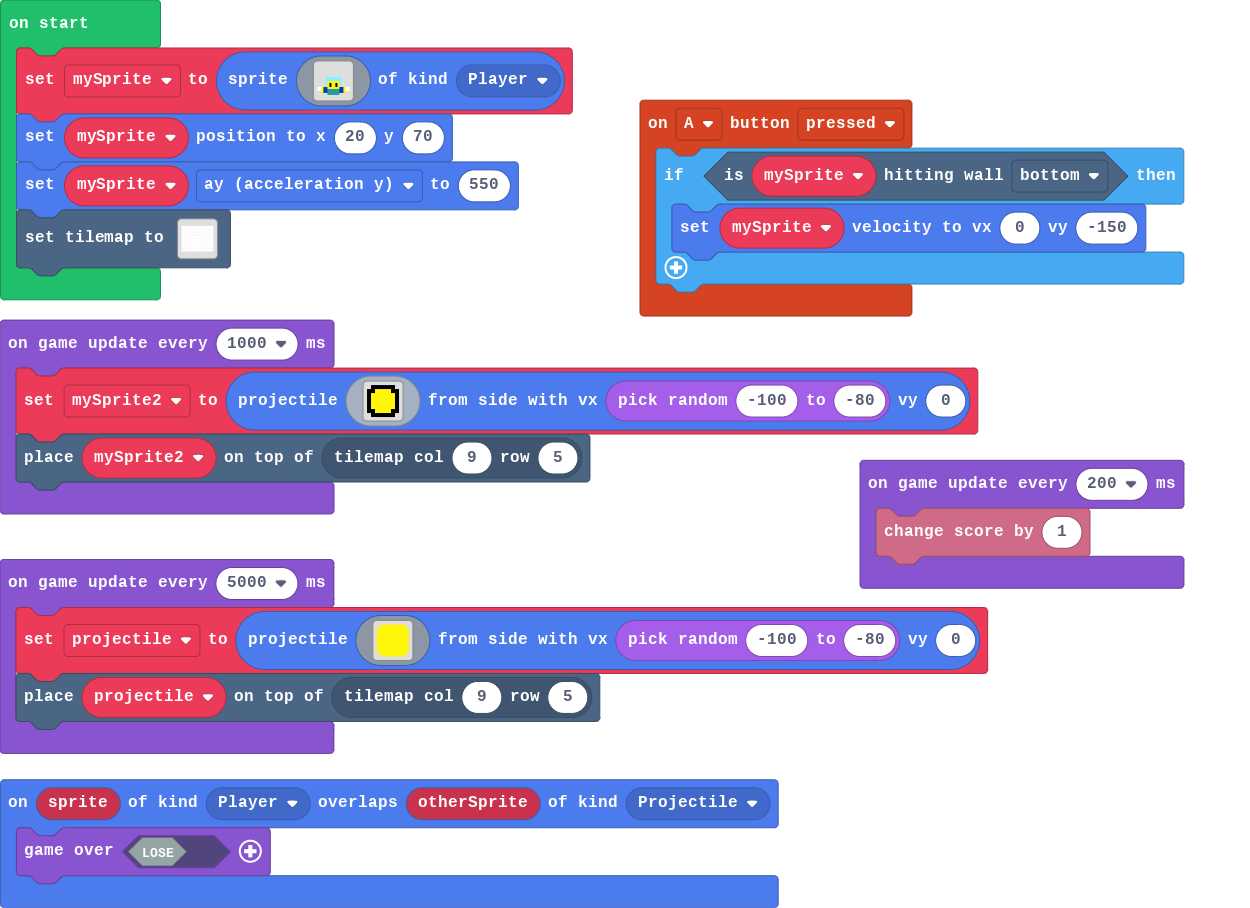
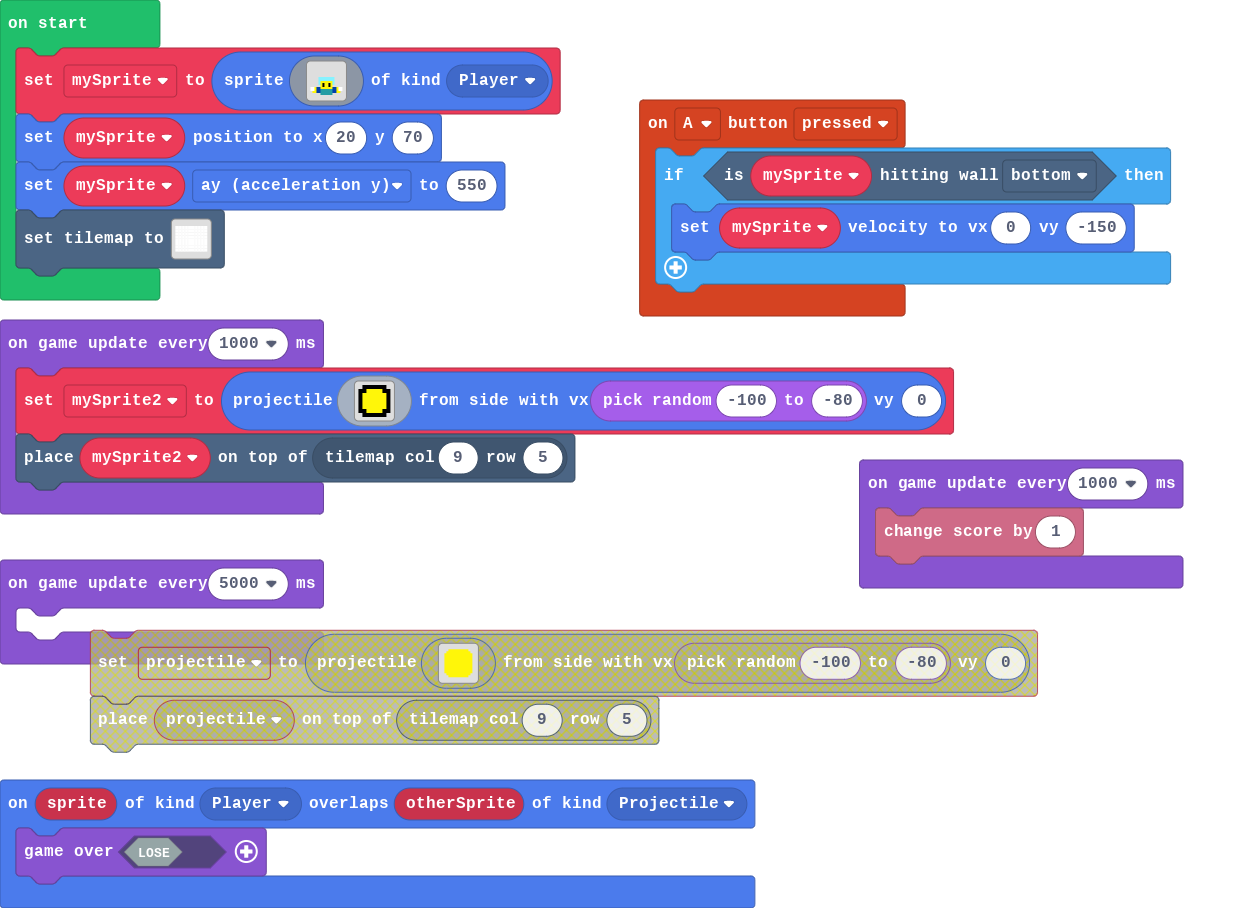
changed how fast the score changes.

diff --git a/main.ts b/main.ts
@@ -7,7 +7,6 @@ sprites.onOverlap(SpriteKind.Player, SpriteKind.Projectile, function (sprite, ot
     game.over(false)
 })
 let mySprite2: Sprite = null
-let projectile: Sprite = null
 let mySprite: Sprite = null
 mySprite = sprites.create(img`
     . . . . . . . . . . . . . . . . 
@@ -40,25 +39,7 @@ tiles.setTilemap(tiles.createTilemap(hex`0a0008000101010101010101010101010101010
     2 2 2 2 2 2 2 2 2 2 
     `, [myTiles.transparency16,myTiles.tile1], TileScale.Sixteen))
 game.onUpdateInterval(5000, function () {
-    projectile = sprites.createProjectileFromSide(img`
-        . . 5 5 5 5 5 5 5 5 5 5 5 5 . . 
-        . 5 5 5 5 5 5 5 5 5 5 5 5 5 5 . 
-        5 5 5 5 5 5 5 5 5 5 5 5 5 5 5 5 
-        5 5 5 5 5 5 5 5 5 5 5 5 5 5 5 5 
-        5 5 5 5 5 5 5 5 5 5 5 5 5 5 5 5 
-        5 5 5 5 5 5 5 5 5 5 5 5 5 5 5 5 
-        5 5 5 5 5 5 5 5 5 5 5 5 5 5 5 5 
-        5 5 5 5 5 5 5 5 5 5 5 5 5 5 5 5 
-        5 5 5 5 5 5 5 5 5 5 5 5 5 5 5 5 
-        5 5 5 5 5 5 5 5 5 5 5 5 5 5 5 5 
-        5 5 5 5 5 5 5 5 5 5 5 5 5 5 5 5 
-        5 5 5 5 5 5 5 5 5 5 5 5 5 5 5 5 
-        5 5 5 5 5 5 5 5 5 5 5 5 5 5 5 5 
-        5 5 5 5 5 5 5 5 5 5 5 5 5 5 5 5 
-        . 5 5 5 5 5 5 5 5 5 5 5 5 5 5 . 
-        . . 5 5 5 5 5 5 5 5 5 5 5 5 . . 
-        `, randint(-100, -80), 0)
-    tiles.placeOnTile(projectile, tiles.getTileLocation(9, 5))
+	
 })
 game.onUpdateInterval(1000, function () {
     mySprite2 = sprites.createProjectileFromSide(img`
@@ -73,6 +54,6 @@ game.onUpdateInterval(1000, function () {
         `, randint(-100, -80), 0)
     tiles.placeOnTile(mySprite2, tiles.getTileLocation(9, 5))
 })
-game.onUpdateInterval(200, function () {
+game.onUpdateInterval(1000, function () {
     info.changeScoreBy(1)
 })
